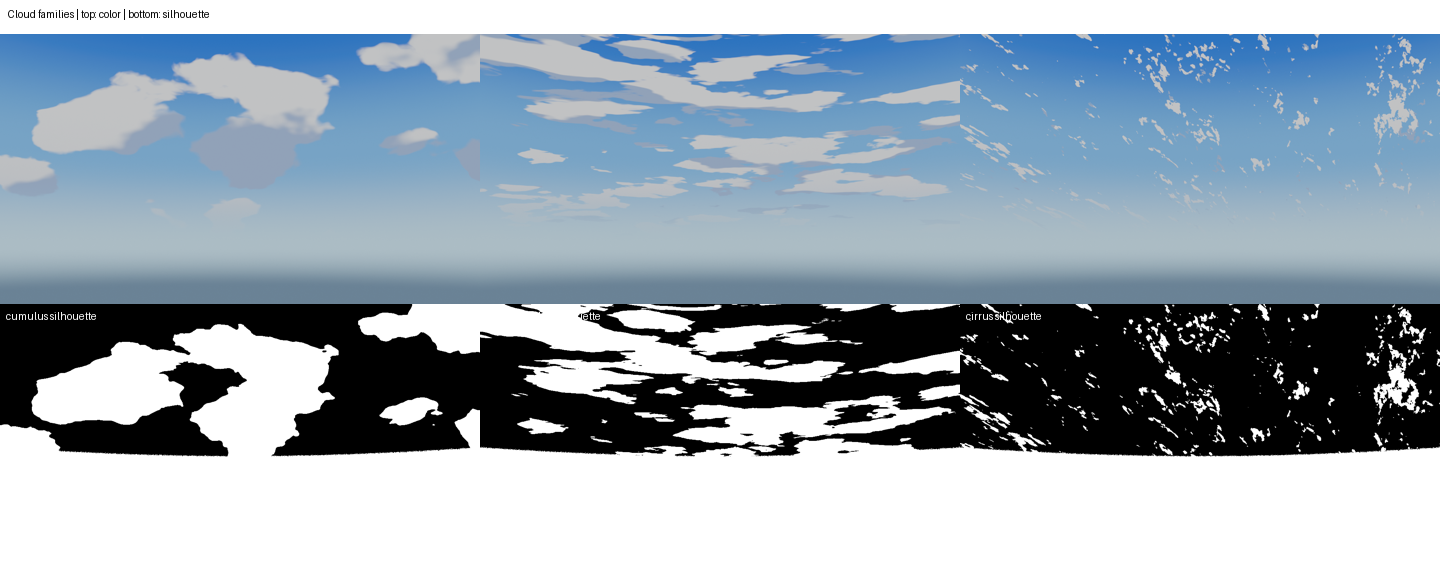
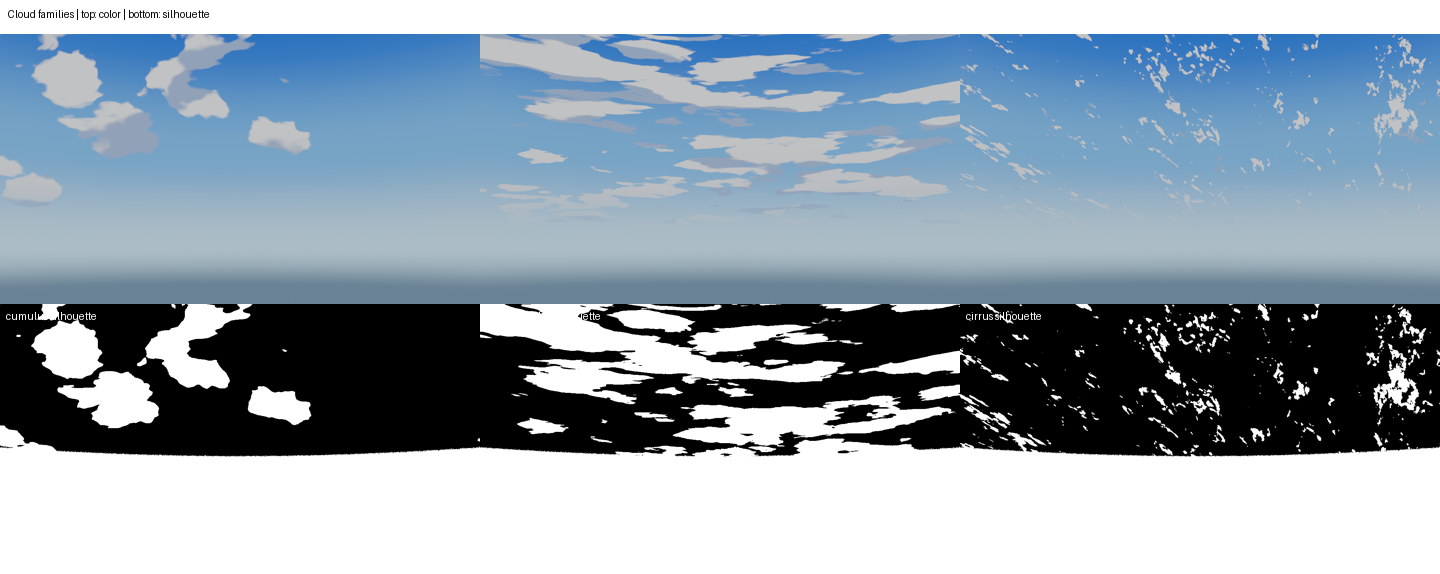
docs: record the Cumulus lighting iteration

diff --git a/preset_dev/cloud_families.py b/preset_dev/cloud_families.py
@@ -22,7 +22,7 @@ if HERE not in sys.path:
 
 OUT = os.path.join(HERE, "cloud_families")
 FAMILIES = (
-    ("cumulus", "CUMULUS", 0.48, 0.15, 0.90, 0.28, 3.4),
+    ("cumulus", "CUMULUS", 0.50, 0.05, 0.95, 0.45, 4.0),
     ("stratocumulus", "STRATOCUMULUS", 0.75, 0.95, 0.10, 0.20, 3.8),
     ("cirrus", "CIRRUS", 0.38, 0.30, 0.10, 0.02, 11.0),
 )
@@ -77,6 +77,7 @@ def main():
         scene.ald.cloud_breakup = breakup
         scene.ald.cloud_scale = scale
         scene.ald.cloud_sun_lighting = 1.4
+        scene.ald.cloud_detail = 0.25 if key == "CUMULUS" else 0.60
         palette.apply_palette(scene, scene.ald.palette)
         bpy.context.view_layer.update()
         path = os.path.join(OUT, name + ".png")

diff --git a/preset_dev/cloud_families/README.md b/preset_dev/cloud_families/README.md
@@ -6,12 +6,13 @@ set.
 
 | Family | Coverage | Flatness | Vertical | Breakup | Scale |
 |---|---:|---:|---:|---:|---:|
-| Cumulus | 0.48 | 0.15 | 0.90 | 0.28 | 3.4 |
+| Cumulus | 0.50 | 0.05 | 0.95 | 0.45 | 4.0 |
 | Stratocumulus | 0.75 | 0.95 | 0.10 | 0.20 | 3.8 |
 | Cirrus | 0.38 | 0.30 | 0.10 | 0.02 | 11.0 |
 
 `contact.png` shows the color rows and the silhouettes extracted from the
-luminance/neutrality mask. The silhouettes are the first gate evidence:
+luminance/neutrality mask. `iteration.png` compares the 2.59.0 Cumulus with
+the 2.59.1 lighting iteration. The silhouettes are the first gate evidence:
 isolated rounded masses (Cumulus), horizontal bands and openings
 (Stratocumulus), stretched thin structures (Cirrus).
 
